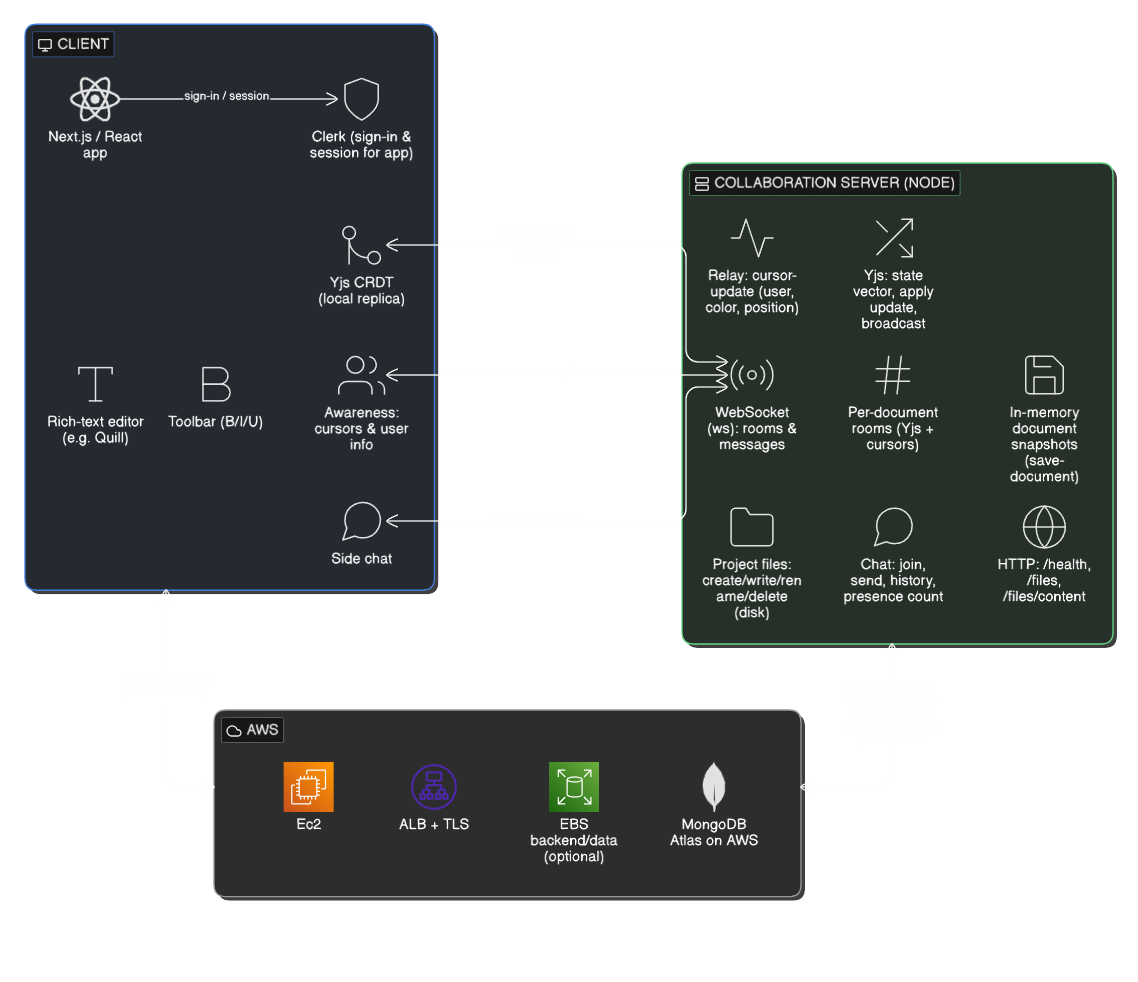
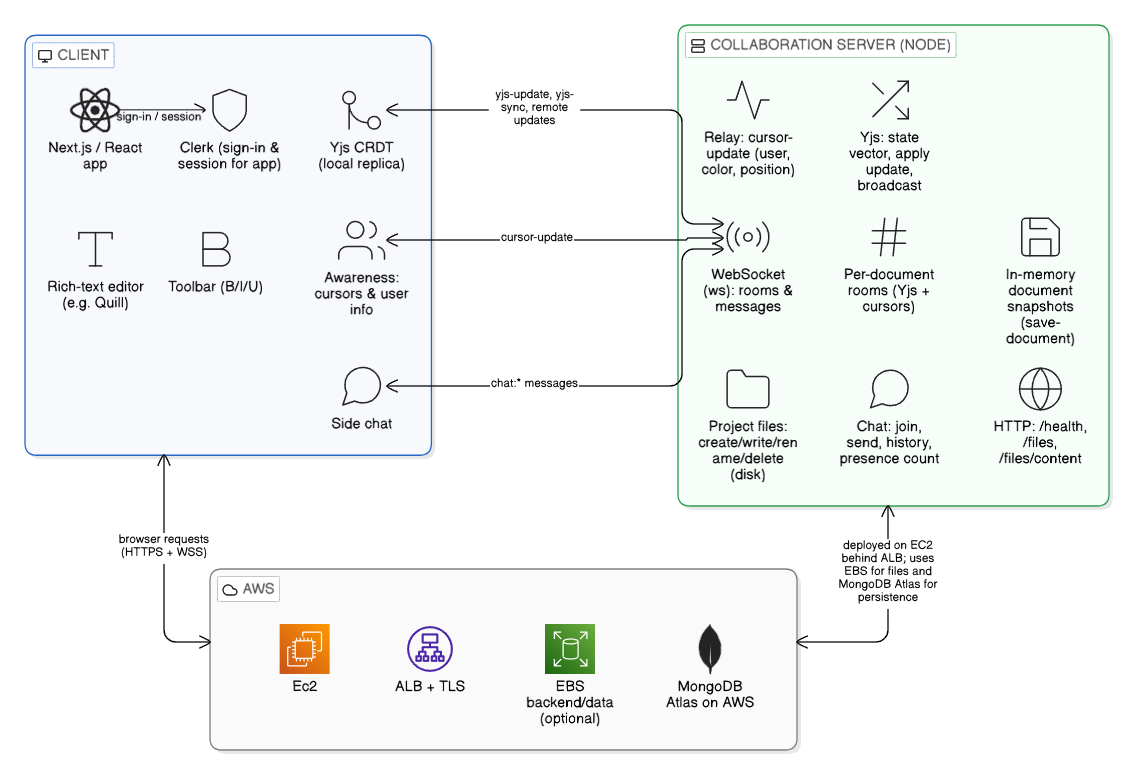
Update README.md for improved clarity and add architecture diagram

diff --git a/README.md b/README.md
@@ -1,3 +1,218 @@
-## CollabWriter - One File, Multiple Collabs
+# CollabWriter - Single Platform for Document & Code Editor
+### HCL GUVI Hackathon 2026
+CollabWriter is a full-stack collaborative workspace that combines a rich-text document editor and a code playground in one application. Users get live cursors, in-editor chat, a simulated terminal, file-tree sync, and document persistence backed by MongoDB, with authentication handled by Clerk.
 
-This project is specially developed for HCL Guvi Hackathon with the participation
+**Live demo:** [https://collabwriter.serviceapp.live/](https://collabwriter.serviceapp.live/)
+
+---
+
+## Table of contents
+
+1. [Features](#features)
+2. [Architecture overview](#architecture-overview)
+3. [Tech stack](#tech-stack)
+4. [Repository structure](#repository-structure)
+5. [Prerequisites](#prerequisites)
+6. [Setup instructions](#setup-instructions)
+7. [Environment variables](#environment-variables)
+8. [Running locally](#running-locally)
+9. [Production deployment (summary)](#production-deployment-summary)
+10. [AI tools used](#ai-tools-used)
+11. [Known limitations](#known-limitations)
+
+---
+
+## Features
+
+- **Authentication:** Sign-in and session management via [Clerk](https://clerk.com/).
+- **Rich-text documents:** Quill-based editor with formatting toolbar and collaborative editing.
+- **Code editor:** Ace editor with themes, multi-file tabs, and project file explorer.
+- **Real-time collaboration:** Yjs-backed document sync, cursor presence, and change relay over WebSockets (`ws` on the collaboration server).
+- **Side chat:** Session-based chat rooms per project or context (messages are ephemeral when the room is cleared).
+- **Terminal:** In-browser terminal UI with server-side command execution (sandboxed timeouts and project-scoped working directory).
+- **Persistence:** MongoDB (Mongoose) for users, documents, and metadata; project files stored on disk under the collaboration server data directory.
+- **Optional media:** AWS Cloud Storage integration for file uploads where configured.
+
+---
+
+## Architecture overview
+
+The system is split into a **Next.js client** (React, App Router) and a **Node.js collaboration server** that exposes HTTP APIs for file content and a WebSocket endpoint for real-time events, Yjs updates, chat, and terminal I/O. The browser talks to the Next app over HTTPS and to the collaboration server over WebSocket (and HTTP for file tree and content endpoints).
+
+**High-level diagram (see repository asset):**
+
+<img src="public/images/architecture.png" alt="CollabWriter architecture" width="600" height="400"/>
+
+**Conceptual flow:**
+
+1. **Client (Next.js / React):** Clerk handles auth. Editors connect to the collaboration WebSocket URL (`NEXT_PUBLIC_SOCKET_BACKEND_URL`). The same base is converted to HTTP for `/files` and `/files/content` requests.
+2. **Collaboration server (`backend/server.js`):** Uses `ws` on Node `http` for upgrades; manages per-document rooms, Yjs state vectors and updates, cursor relay, chat rooms, and project file operations on local disk (`backend/data`).
+3. **Data:** MongoDB stores application entities (users, documents, permissions). Project files live on the server filesystem (suitable for EBS or equivalent on AWS).
+4. **Production (typical):** Traffic is often terminated at TLS (ALB, Nginx, or similar), then forwarded to the Next process and the collaboration server on private ports. WebSocket proxying must preserve `Upgrade` and `Connection` headers.
+
+---
+
+## Tech stack
+
+| Layer | Technologies |
+|--------|----------------|
+| **Frontend** | Next.js 14 (App Router), React 18, TypeScript, Tailwind CSS, Radix UI, shadcn-style patterns |
+| **Auth** | Clerk (`@clerk/nextjs`, `@clerk/themes`) |
+| **Editors** | Quill 2, React Ace (`react-ace`), Yjs (`yjs`) |
+| **Real-time** | `ws` (WebSocket server), `socket.io` / `socket.io-client` (present in codebase for extended sync utilities) |
+| **Backend (collaboration)** | Node.js, `http`, `backend/server.js` |
+| **Database** | MongoDB via Mongoose |
+| **Optional** | AWS Cloud Storage (S3, EBS) |
+| **Tooling** | ESLint (`eslint-config-next`), PostCSS, Tailwind |
+
+---
+
+## Repository structure
+
+```
+CollabWriter/
+├── app/                    # Next.js App Router pages, layouts, API routes
+├── backend/
+│   ├── server.js           # Collaboration server (HTTP + WebSocket)
+│   └── data/               # Project files (created at runtime; gitignored as appropriate)
+├── components/             # React components (editors, terminal, chat, UI)
+├── lib/                    # Mongoose, server actions, models, realtime helpers
+├── public/                 # Static assets (including images/architecture.png)
+└── package.json
+```
+
+---
+
+## Prerequisites
+
+- **Node.js** 18 or 20 (LTS recommended)
+- **npm** (lockfile: `package-lock.json`)
+- **MongoDB** (local or hosted; connection string required)
+- **Clerk** account and application (publishable + secret keys)
+
+---
+
+## Setup instructions
+
+1. **Clone the repository**
+
+   ```bash
+   git clone https://github.com/sujay-deshpande/CollabWriter
+   cd CollabWriter
+   ```
+
+2. **Install dependencies**
+
+   ```bash
+   npm install
+   ```
+
+3. **Configure environment variables**
+
+   Create a `.env` file in the project root (see [Environment variables](#environment-variables)). Do not commit secrets.
+
+4. **Start MongoDB**
+
+   Ensure MongoDB is reachable at the URL you set in `MONGODB_URL`.
+
+5. **Run the application**
+
+   You need **two processes** in development: the Next.js dev server and the collaboration server. See [Running locally](#running-locally).
+
+---
+
+## Environment variables
+
+Create a `.env` file in the project root. Values below are illustrative; replace with your own.
+
+| Variable | Required | Description |
+|----------|----------|-------------|
+| `NEXT_PUBLIC_APP_URL` | Yes | Public URL of the Next app (e.g. `http://localhost:3000` in dev). |
+| `MONGODB_URL` | Yes | MongoDB connection string (e.g. `mongodb://localhost:27017/collabwriter`). |
+| `NEXT_PUBLIC_CLERK_PUBLISHABLE_KEY` | Yes | Clerk publishable key. |
+| `CLERK_SECRET_KEY` | Yes | Clerk secret key. |
+| `NEXT_PUBLIC_SOCKET_BACKEND_URL` | Yes | WebSocket URL for the collaboration server (e.g. `ws://localhost:5001`). The client derives HTTP base for `/files` by replacing `ws` with `http`. |
+| `NODE_ENV` | Optional | `development` or `production`. |
+| `BACKEND_PORT` | Optional | Collaboration server port (default `5001`). |
+| `BACKEND_HOST` | Optional | Bind address (default `0.0.0.0`). |
+| `AWS_ACCESS_KEY_ID`, `AWS_SECRET_ACCESS_KEY`, `AWS_REGION`, `AWS_S3_BUCKET` | Optional | Amazon S3 for uploads. |
+
+**Note:** `NEXT_PUBLIC_*` variables are embedded at **build time**. Change them and rebuild before deploying.
+
+---
+
+## Running locally
+
+**Terminal 1** (Next.js):
+
+```bash
+npm run dev
+```
+
+**Terminal 2** (collaboration server):
+
+```bash
+npm run backend
+```
+
+Default URLs:
+
+- Next.js: `http://localhost:3000`
+- Collaboration server: `http://localhost:5001` (WebSocket on the same port)
+
+**Production build:**
+
+```bash
+npm run build
+npm run start
+```
+
+Run `npm run backend` (or your process manager) alongside `next start` with the same environment variables.
+
+---
+
+## Production deployment (summary)
+
+- Run **Next.js** (`next start`) and **`node backend/server.js`** on the host or in containers.
+- Point **`NEXT_PUBLIC_SOCKET_BACKEND_URL`** at your public WebSocket URL (use `wss://` behind HTTPS).
+- If you terminate TLS at a load balancer or Nginx, configure WebSocket proxying (`Upgrade`, `Connection`, timeouts) and keep HTTP and WebSocket paths consistent with how the client builds `BACKEND_HTTP_URL` from `NEXT_PUBLIC_SOCKET_BACKEND_URL`.
+- Persist **`backend/data`** (or equivalent volume) for project files.
+- Secure MongoDB and restrict network access; use strong credentials and TLS for remote clusters.
+
+---
+
+## AI tools used
+
+This project was developed with assistance from **AI tools**. In accordance with disclosure requirements, every tool used is listed below.
+
+| Tool | How it was used |
+|------|------------------|
+| **Anthropic Claude** | Research, architecture discussion, and assistance with implementation details and additional features. |
+| **OpenAI ChatGPT** | Research, brainstorming, and support for implementing and refining additional features. |
+
+---
+
+## Known limitations
+
+- **Two-process architecture:** The app expects both Next.js and `backend/server.js`. Missing one process breaks live editing, file tree, terminal, or chat.
+- **Build-time public env:** `NEXT_PUBLIC_*` values are fixed at build time; misconfigured production URLs require a rebuild.
+- **Collaboration server state:** In-memory rooms and Yjs documents on the Node process are not shared across multiple server instances without additional infrastructure (sticky sessions, shared pub/sub, or redesign).
+- **Chat ephemeral behavior:** In-editor chat history is cleared when rooms empty in the current server logic (see `backend/server.js` chat room handling).
+- **Terminal and code execution:** The server runs shell commands in a project-scoped directory with timeouts. **Do not expose this to untrusted users without hardening** (sandboxing, allowlists, resource limits).
+- **MongoDB required:** Server actions that call `connectToDB()` fail if `MONGODB_URL` is missing or invalid.
+- **TypeScript strictness:** `next.config.mjs` may include `typescript.ignoreBuildErrors: true`; some type errors may not block production builds.
+- **Optional dependencies:** `socket.io` server modules exist under `lib/realtime/`; the default production path for the live editor is the `ws` server in `backend/server.js`. Verify which stack you deploy if you enable alternate sync servers.
+
+---
+
+## License
+
+This repository is marked private in `package.json`. Add a license file if you intend to distribute the project.
+
+---
+
+## Credits
+
+Developed by **Sujay Deshpande**. CollabWriter is a collaborative writing and coding workspace.
+
+**Demo:** [https://collabwriter.serviceapp.live/](https://collabwriter.serviceapp.live/)
